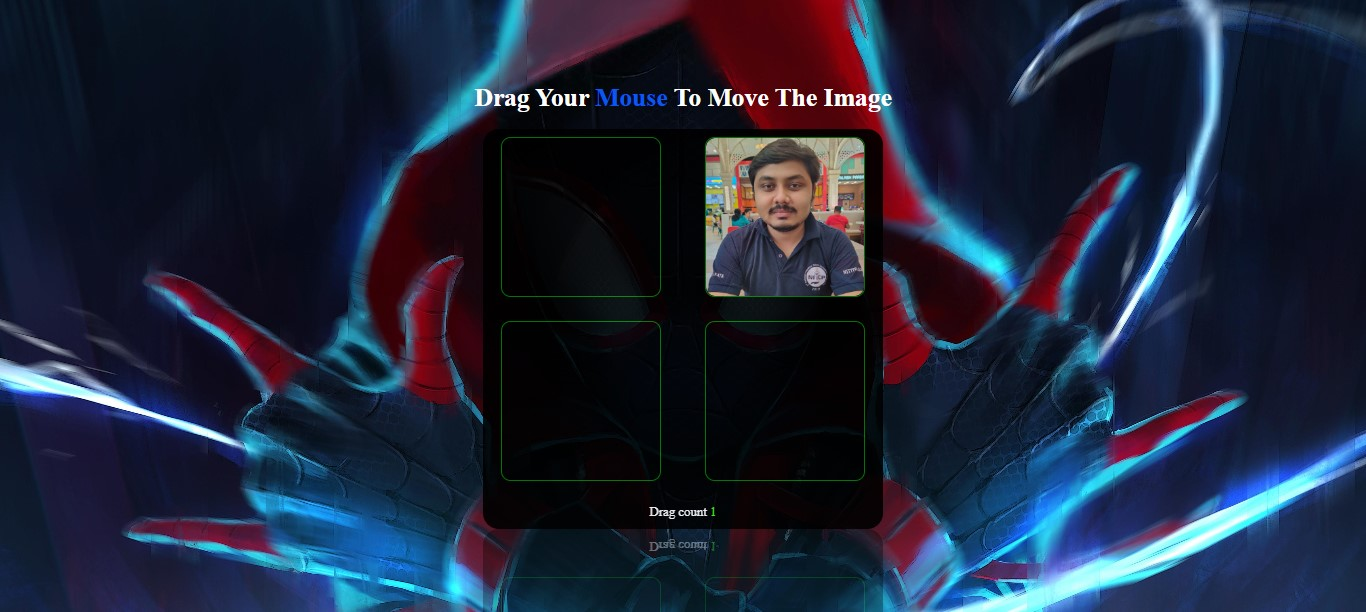
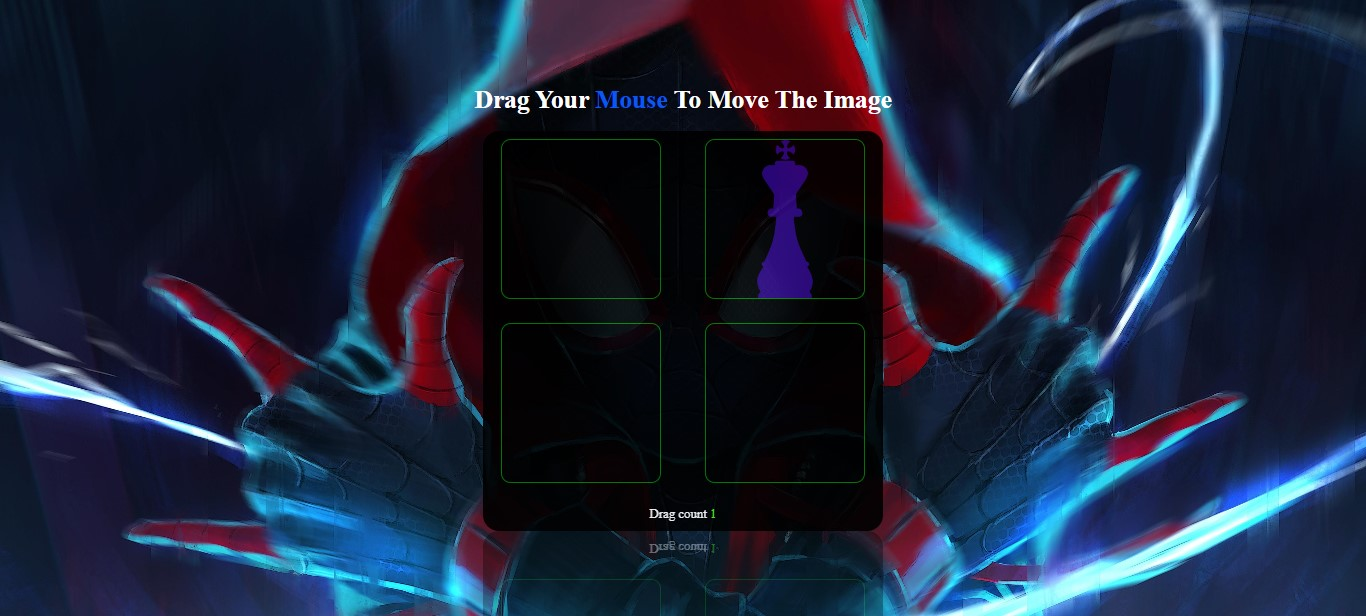
change draggable image

diff --git a/Style.css b/Style.css
@@ -46,7 +46,7 @@ body {
   border-radius: 12px;
   overflow: hidden;
   cursor: pointer;
-  background-image: url("./image/draggable.jpg");
+  background-image: url("./image/king-chess-piece-shape.png");
   background-size: cover;
   background-position: center;
   background-repeat: no-repeat;
